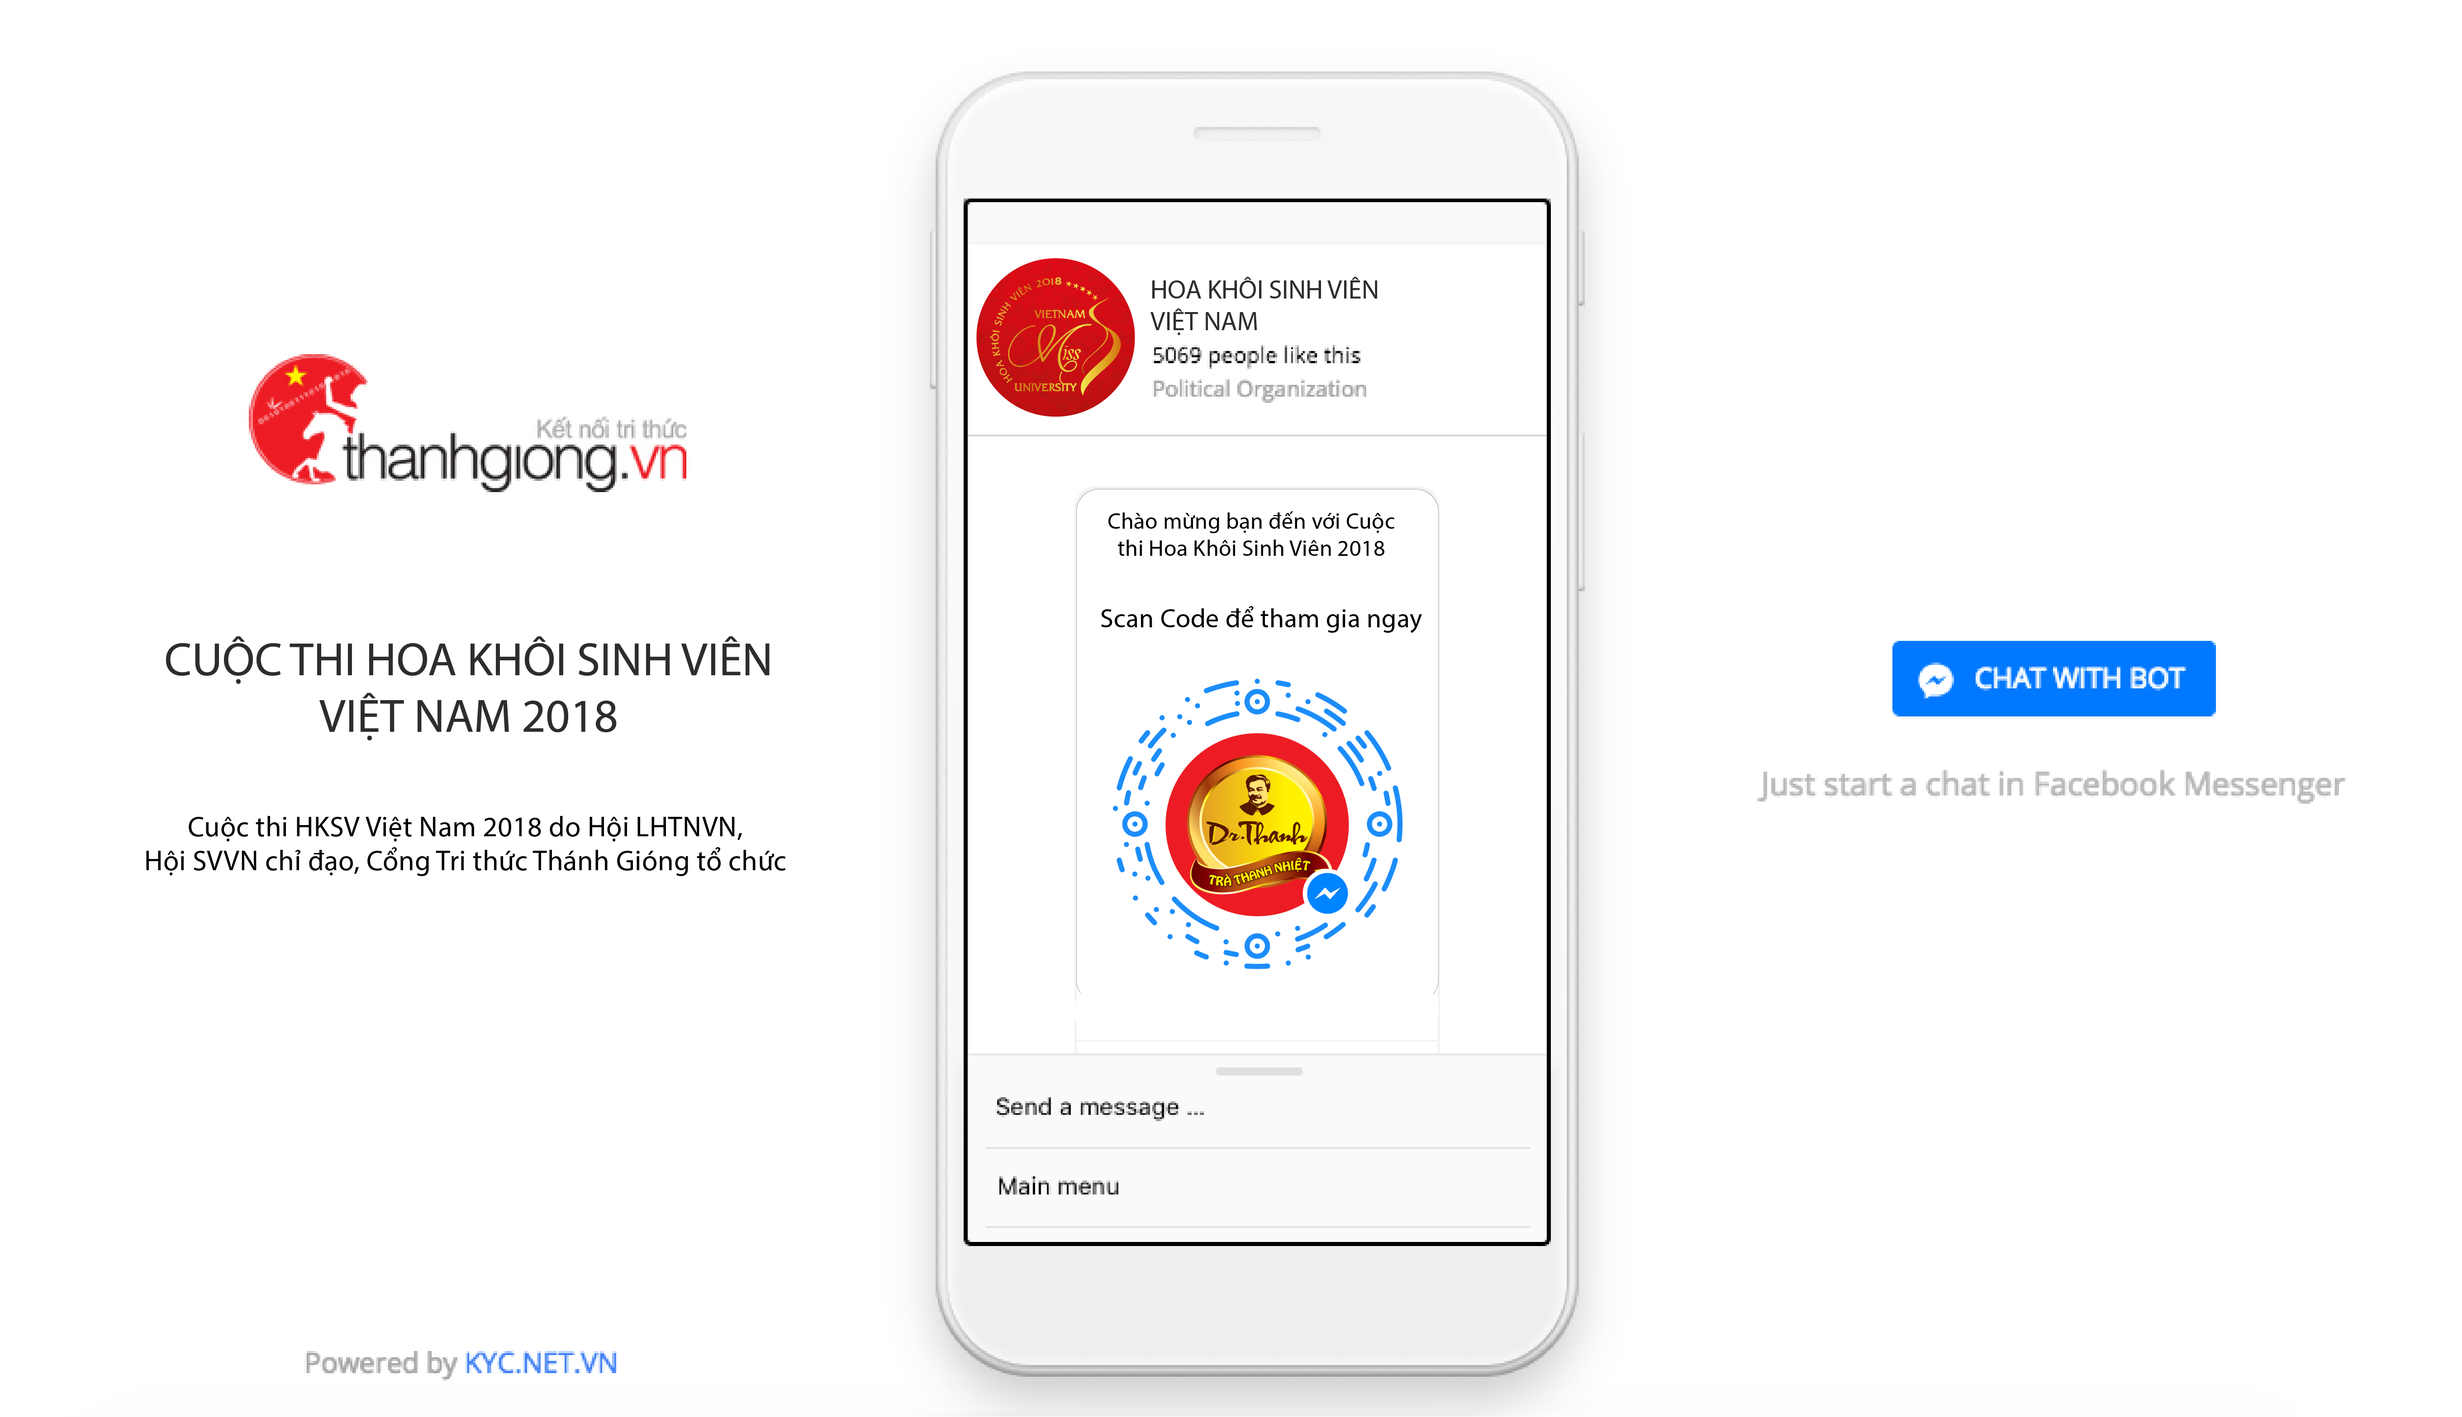
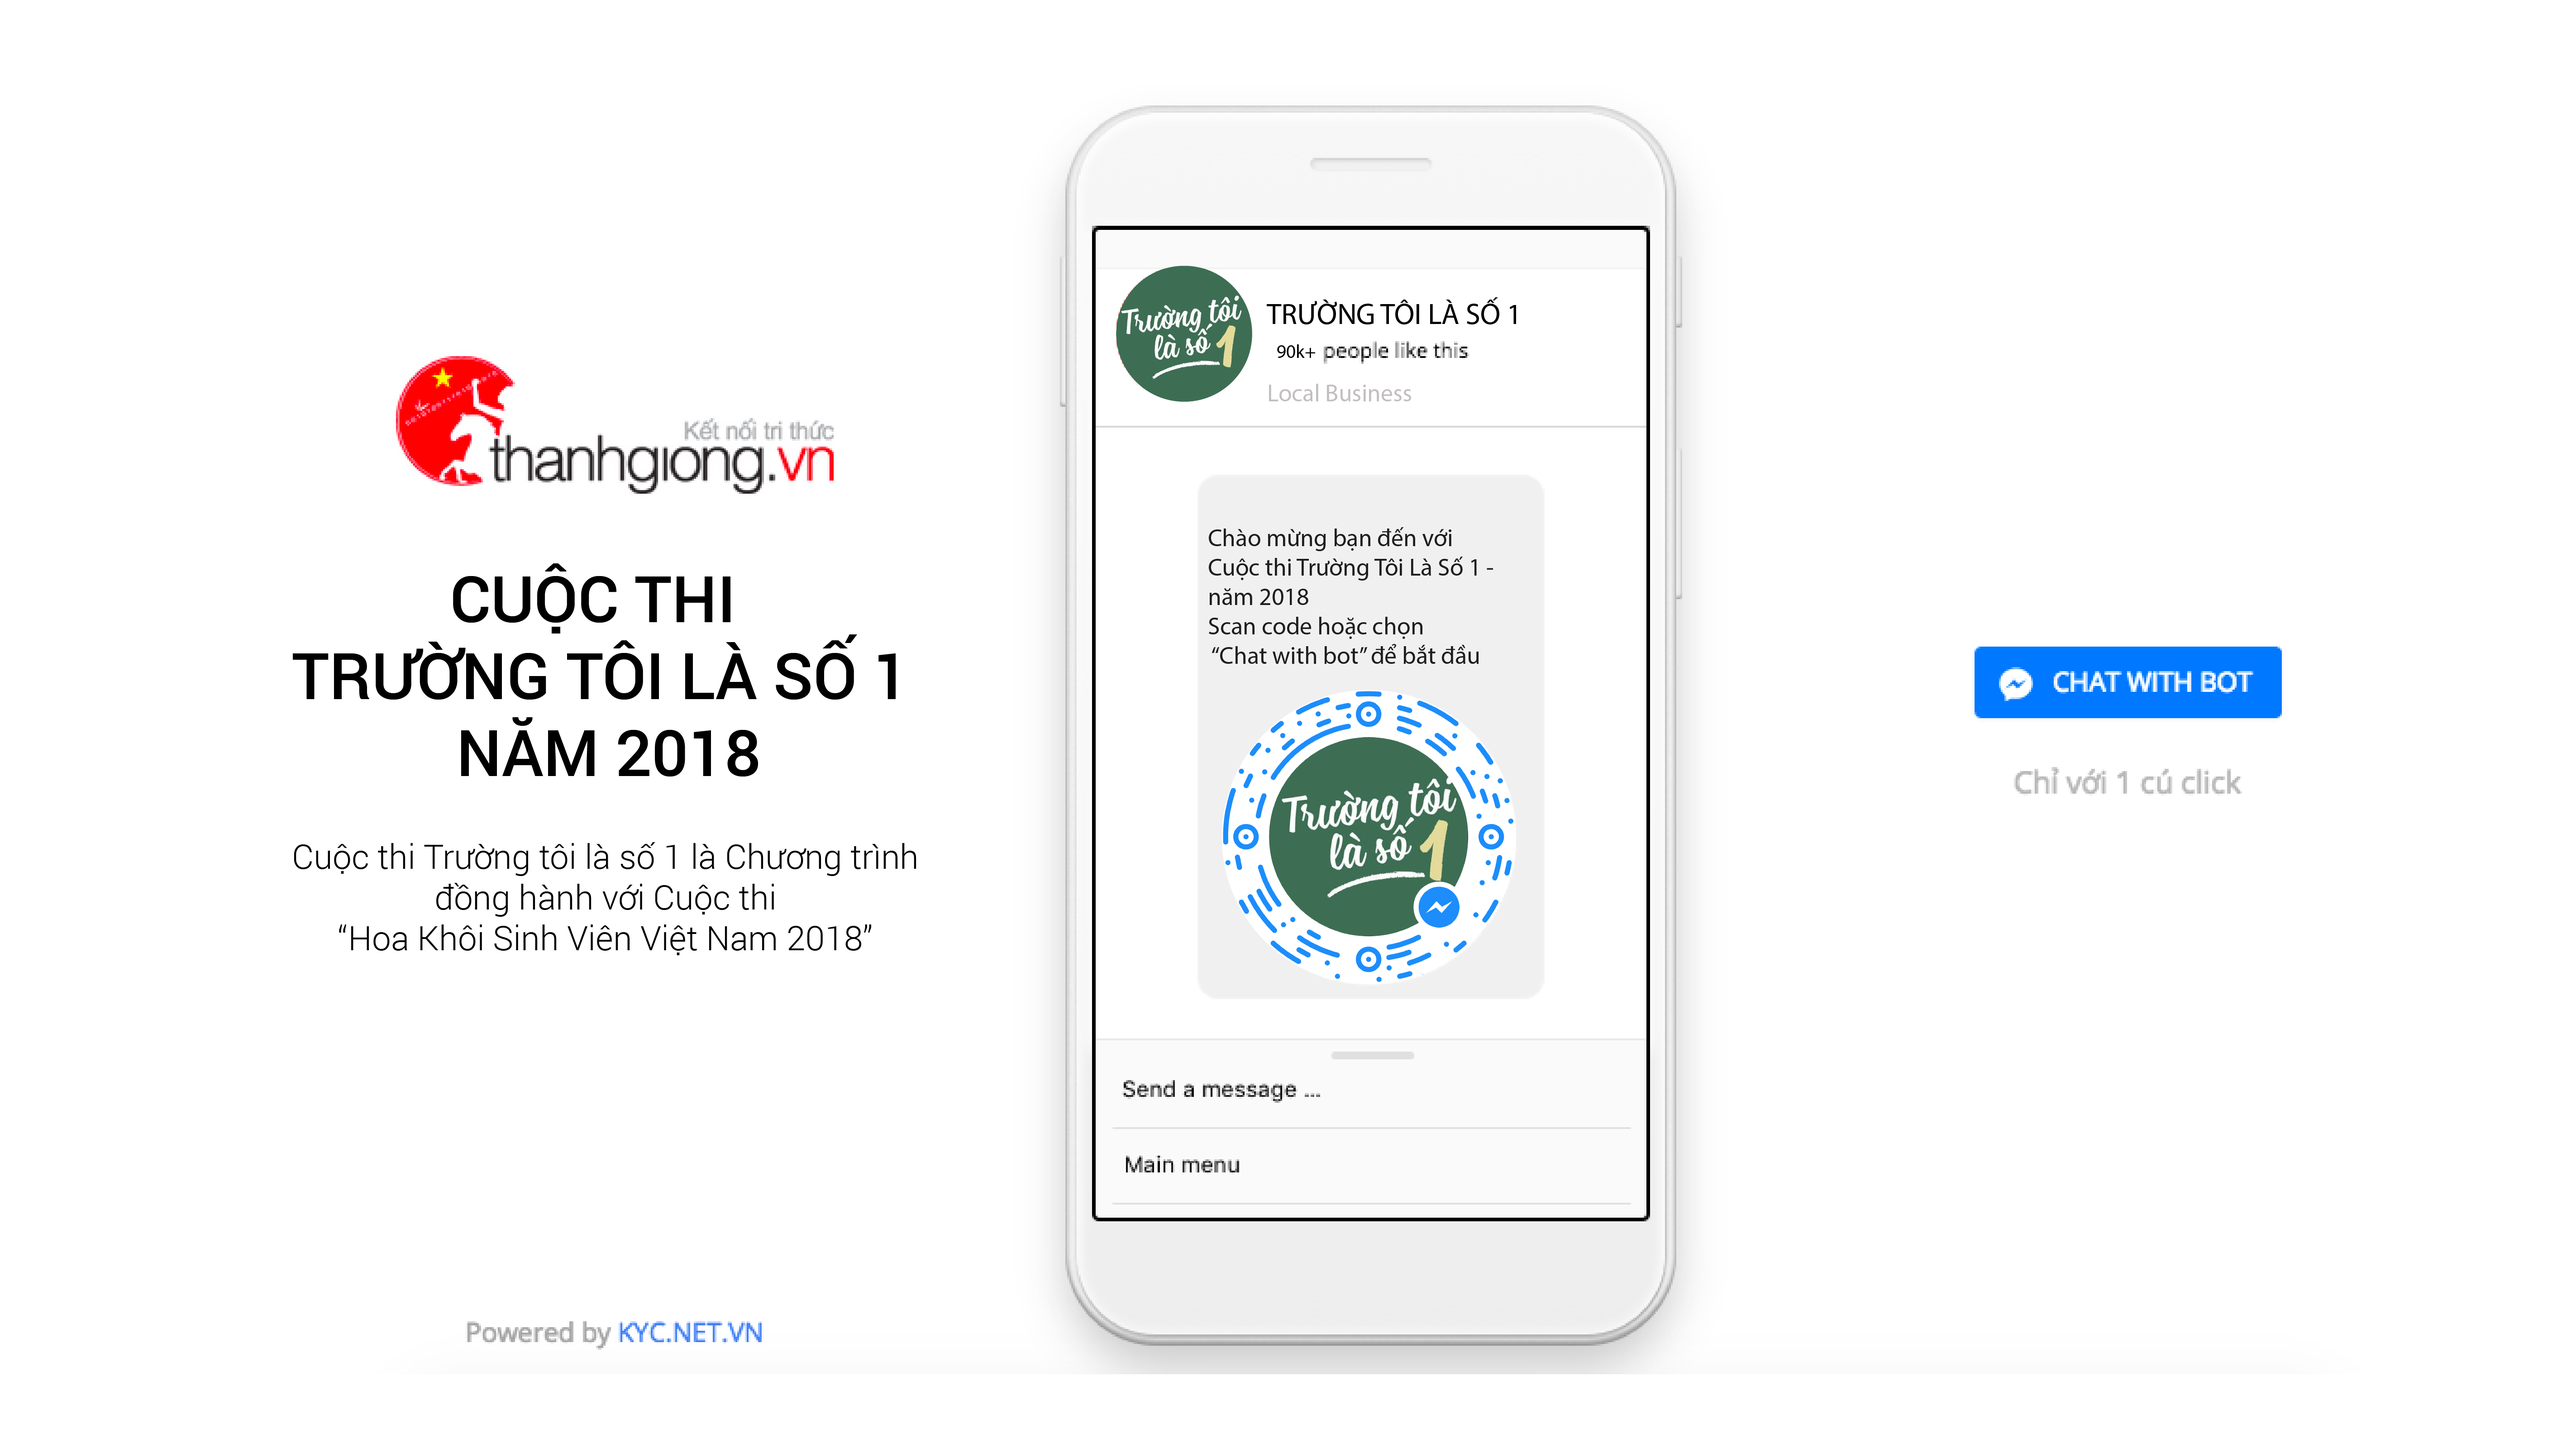
1

diff --git a/public/index.html b/public/index.html
@@ -1,18 +1,18 @@
-
+\
 <!doctype html>
 <html lang="">
 <head>
     <meta charset="utf-8">
     <meta http-equiv="X-UA-Compatible" content="IE=edge">
-    <meta name="title" content="CUỘC THI HOA KHÔI SINH VIÊN VIỆT NAM 2018 chatbot on Facebook Messenger">
-    <meta name="description" content="Cuộc thi HKSV Việt Nam 2018 do Hội LHTNVN, Hội SVVN chỉ đạo, Cổng Tri Thức Thánh Gióng tổ chức">
+    <meta name="title" content="CUỘC THI TRƯỜNG TÔI LÀ SỐ 1 NĂM 2018 chatbot on Facebook Messenger">
+    <meta name="description" content="Cuộc thi "Trường tôi là số 1" là Chương trình đồng hành với cuộc thi "Hoa Khôi Sinh Viên Việt Nam 2018"">
     <meta name="viewport" content="width=device-width, initial-scale=1.0">
-    <title>CUỘC THI HOA KHÔI SINH VIÊN VIỆT NAM 2018 chatbot on Facebook Messenger</title>
+    <title>CUỘC THI TRƯỜNG TÔI LÀ SỐ 1 NĂM 2018 chatbot on Facebook Messenger</title>
 
     <link href="http://fonts.googleapis.com/css?family=Open+Sans" rel="stylesheet">
 
-  	<link rel="icon" type="image/png" href="/images/hksv_logo.png"/>
-    <link rel="shortcut icon" href="/images/hksv_logo.png">
+  	<link rel="icon" type="image/png" href="/images/logo.png"/>
+    <link rel="shortcut icon" href="/images/logo.png">
 
     <!-- Your styles -->
     <link rel="stylesheet" href="css/bootstrap-theme.css">
@@ -22,8 +22,8 @@
     <link rel="stylesheet" href="css/main.css">
 
     <!-- OpenGraph -->
-    <meta property="og:title" content="CUỘC THI HOA KHÔI SINH VIÊN VIỆT NAM 2018 chatbot">
-    <meta property="og:description" content="Cuộc thi HKSV Việt Nam 2018 do Hội LHTNVN, Hội SVVN chỉ đạo, Cổng Tri Thức Thánh Gióng tổ chức">
+    <meta property="og:title" content="CUỘC THI TRƯỜNG TÔI LÀ SỐ 1 NĂM 2018 chatbot">
+    <meta property="og:description" content="Cuộc thi Trường tôi là số 1 là Chương trình đồng hành với cuộc thi Hoa Khôi Sinh Viên Việt Nam 2018">
     <meta property="og:image" content="img/chatfuel-page-landing-og-image.png">
     <meta property="og:url" content="kyc.net.vn">
 
@@ -108,8 +108,8 @@
         
     </div>
     <div class="bot-info-container">
-      <h1 class="bot-title">CUỘC THI HOA KHÔI SINH VIÊN VIỆT NAM 2018</h1>
-      <div class="bot-description">Cuộc thi HKSV Việt Nam 2018 do Hội LHTNVN, Hội SVVN chỉ đạo, Cổng Tri Thức Thánh Gióng tổ chức</div>
+      <h1 class="bot-title">CUỘC THI TRƯỜNG TÔI LÀ SỐ 1 NĂM 2018</h1>
+      <div class="bot-description">Cuộc thi "Trường tôi là số 1" là Chương trình đồng hành với cuộc thi "Hoa Khôi Sinh Viên Việt Nam 2018"</div>
     </div>
     <div class="powered-by">Powered by <a href="#">KYC.NET.VN</a></div>
   </div>
@@ -122,11 +122,11 @@
       <div class="display-content">
 
         <div class="display-bot-header clearfix">
-          <div class="display-bot-header__avatar" style="background-image: url('images/hksv_logo.png'); "></div>
+          <div class="display-bot-header__avatar" style="background-image: url('images/logo.png'); "></div>
 
           <div class="display-bot-header__info">
-            <div class="display-bot-header__title">CUỘC THI HOA KHÔI SINH VIÊN VIỆT NAM 2018</div>
-            <div class="display-bot-header__likes">10k+ people like this</div>
+            <div class="display-bot-header__title">CUỘC THI TRƯỜNG TÔI LÀ SỐ 1 NĂM 2018</div>
+            <div class="display-bot-header__likes">90k+ people like this</div>
             <div class="display-bot-header__description">Performance Art Theatre</div>
           </div>
         </div>
@@ -138,7 +138,7 @@
                 <div class="plugin text-template-plugin clearfix">
                     <div class="plugin__text-bubble">
                         <span class="plugin__text">
-                            Chào mừng bạn đến với Cuộc thi Hoa Khôi Sinh Viên 2018<br />
+                            Chào mừng bạn đến với Cuộc thi Trường tôi là số 1 - năm 2018<br />
                             "Scan code" hoặc chọn "Chat with bot" để bắt đầu
                         </span>
 
